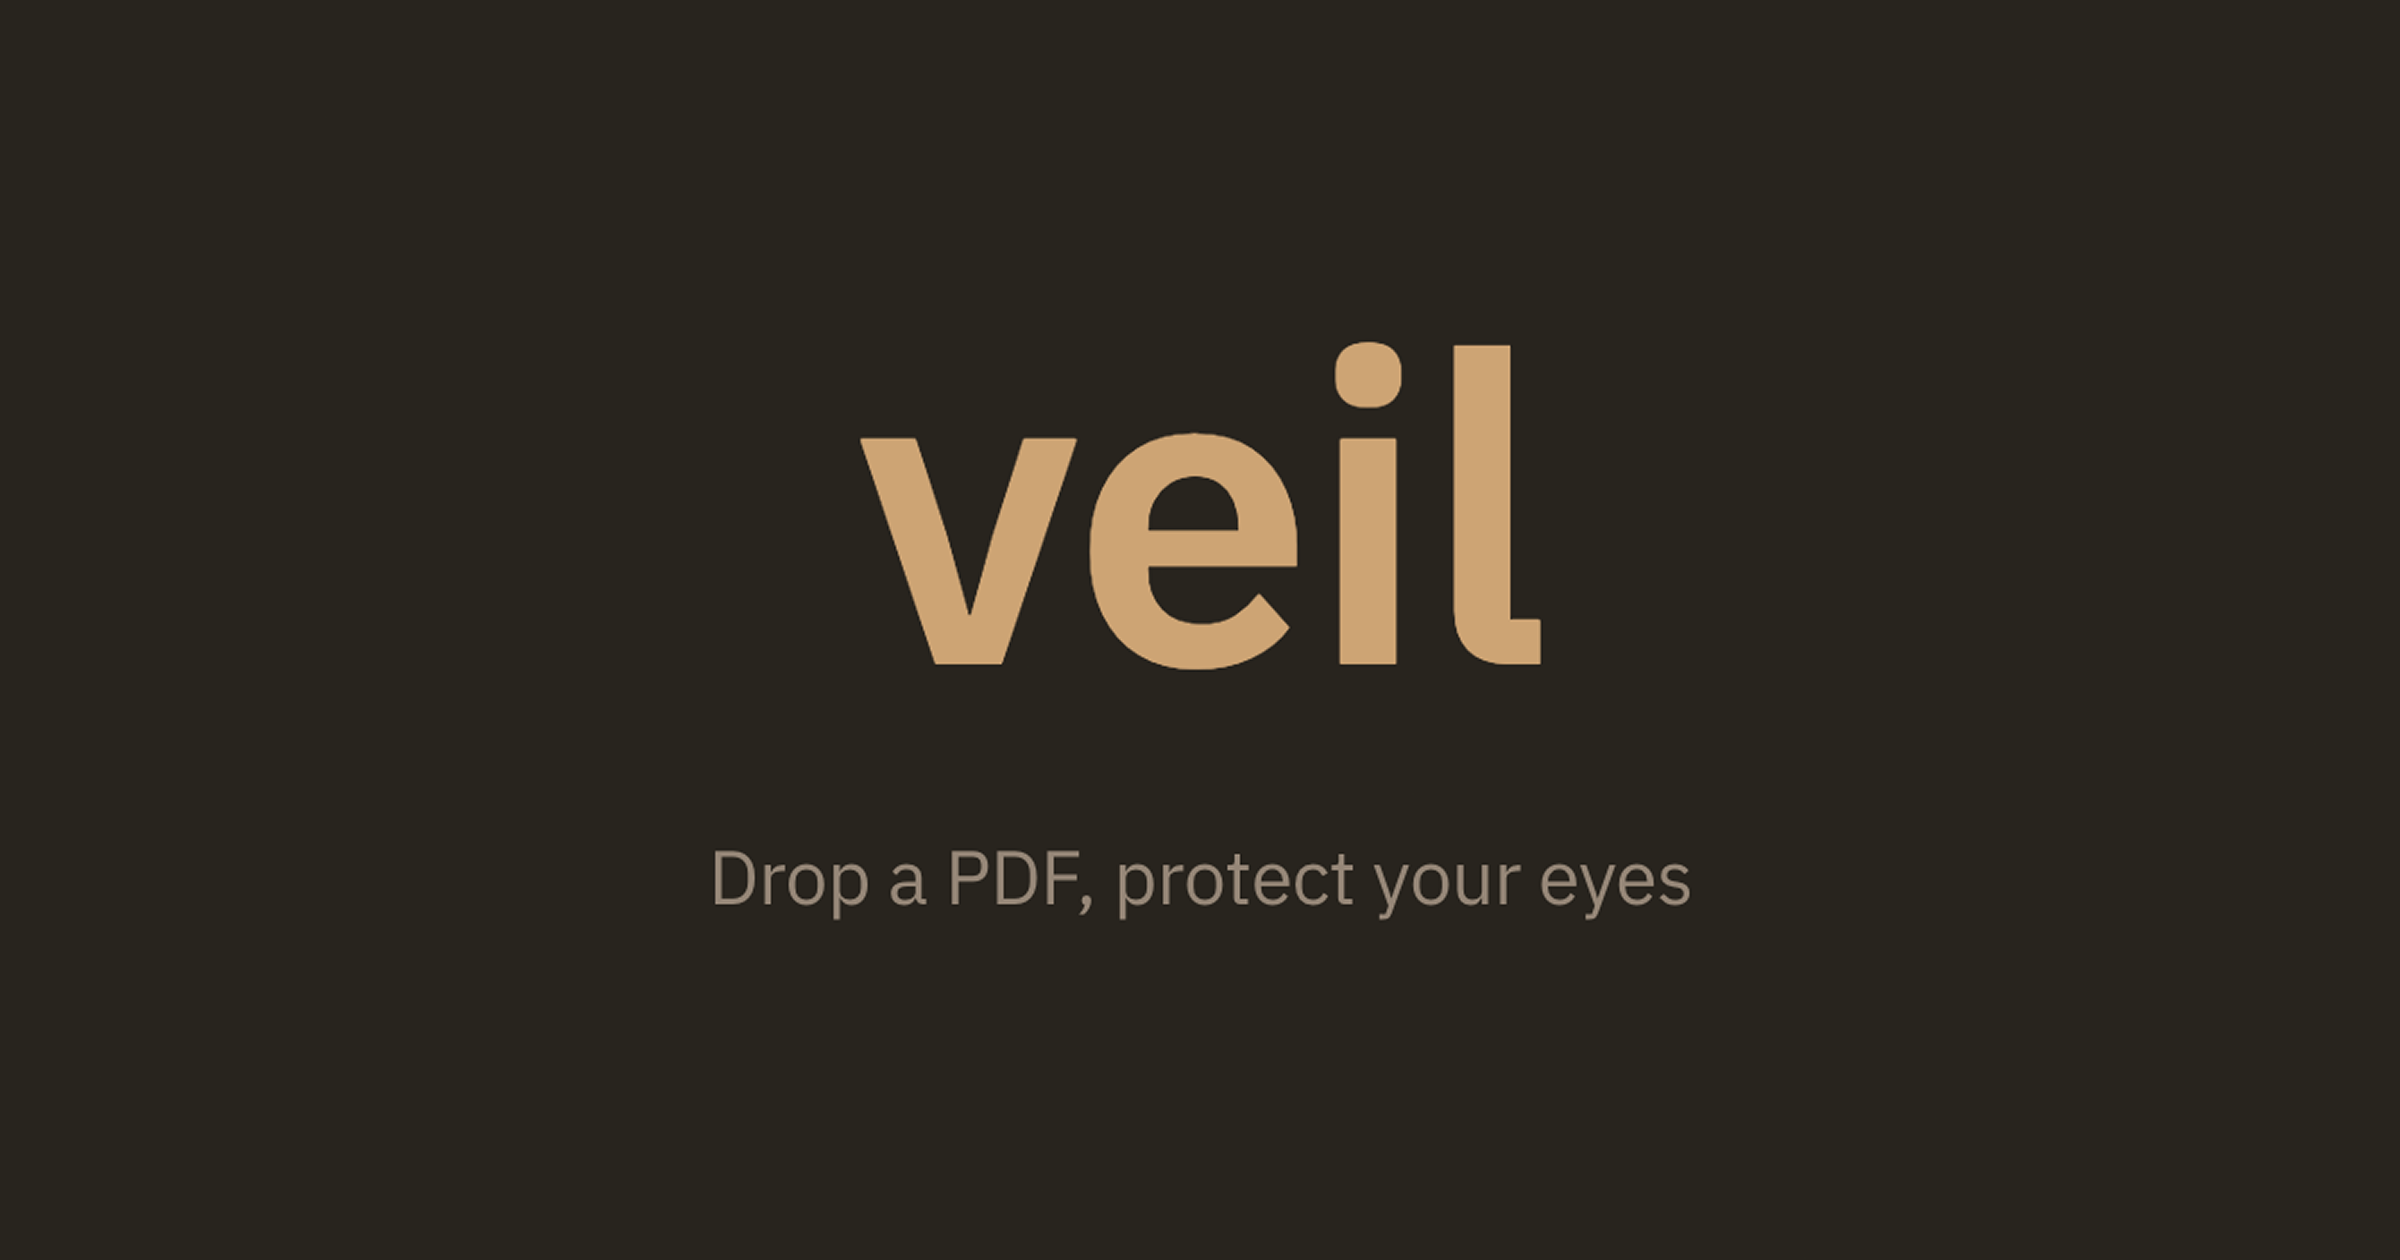
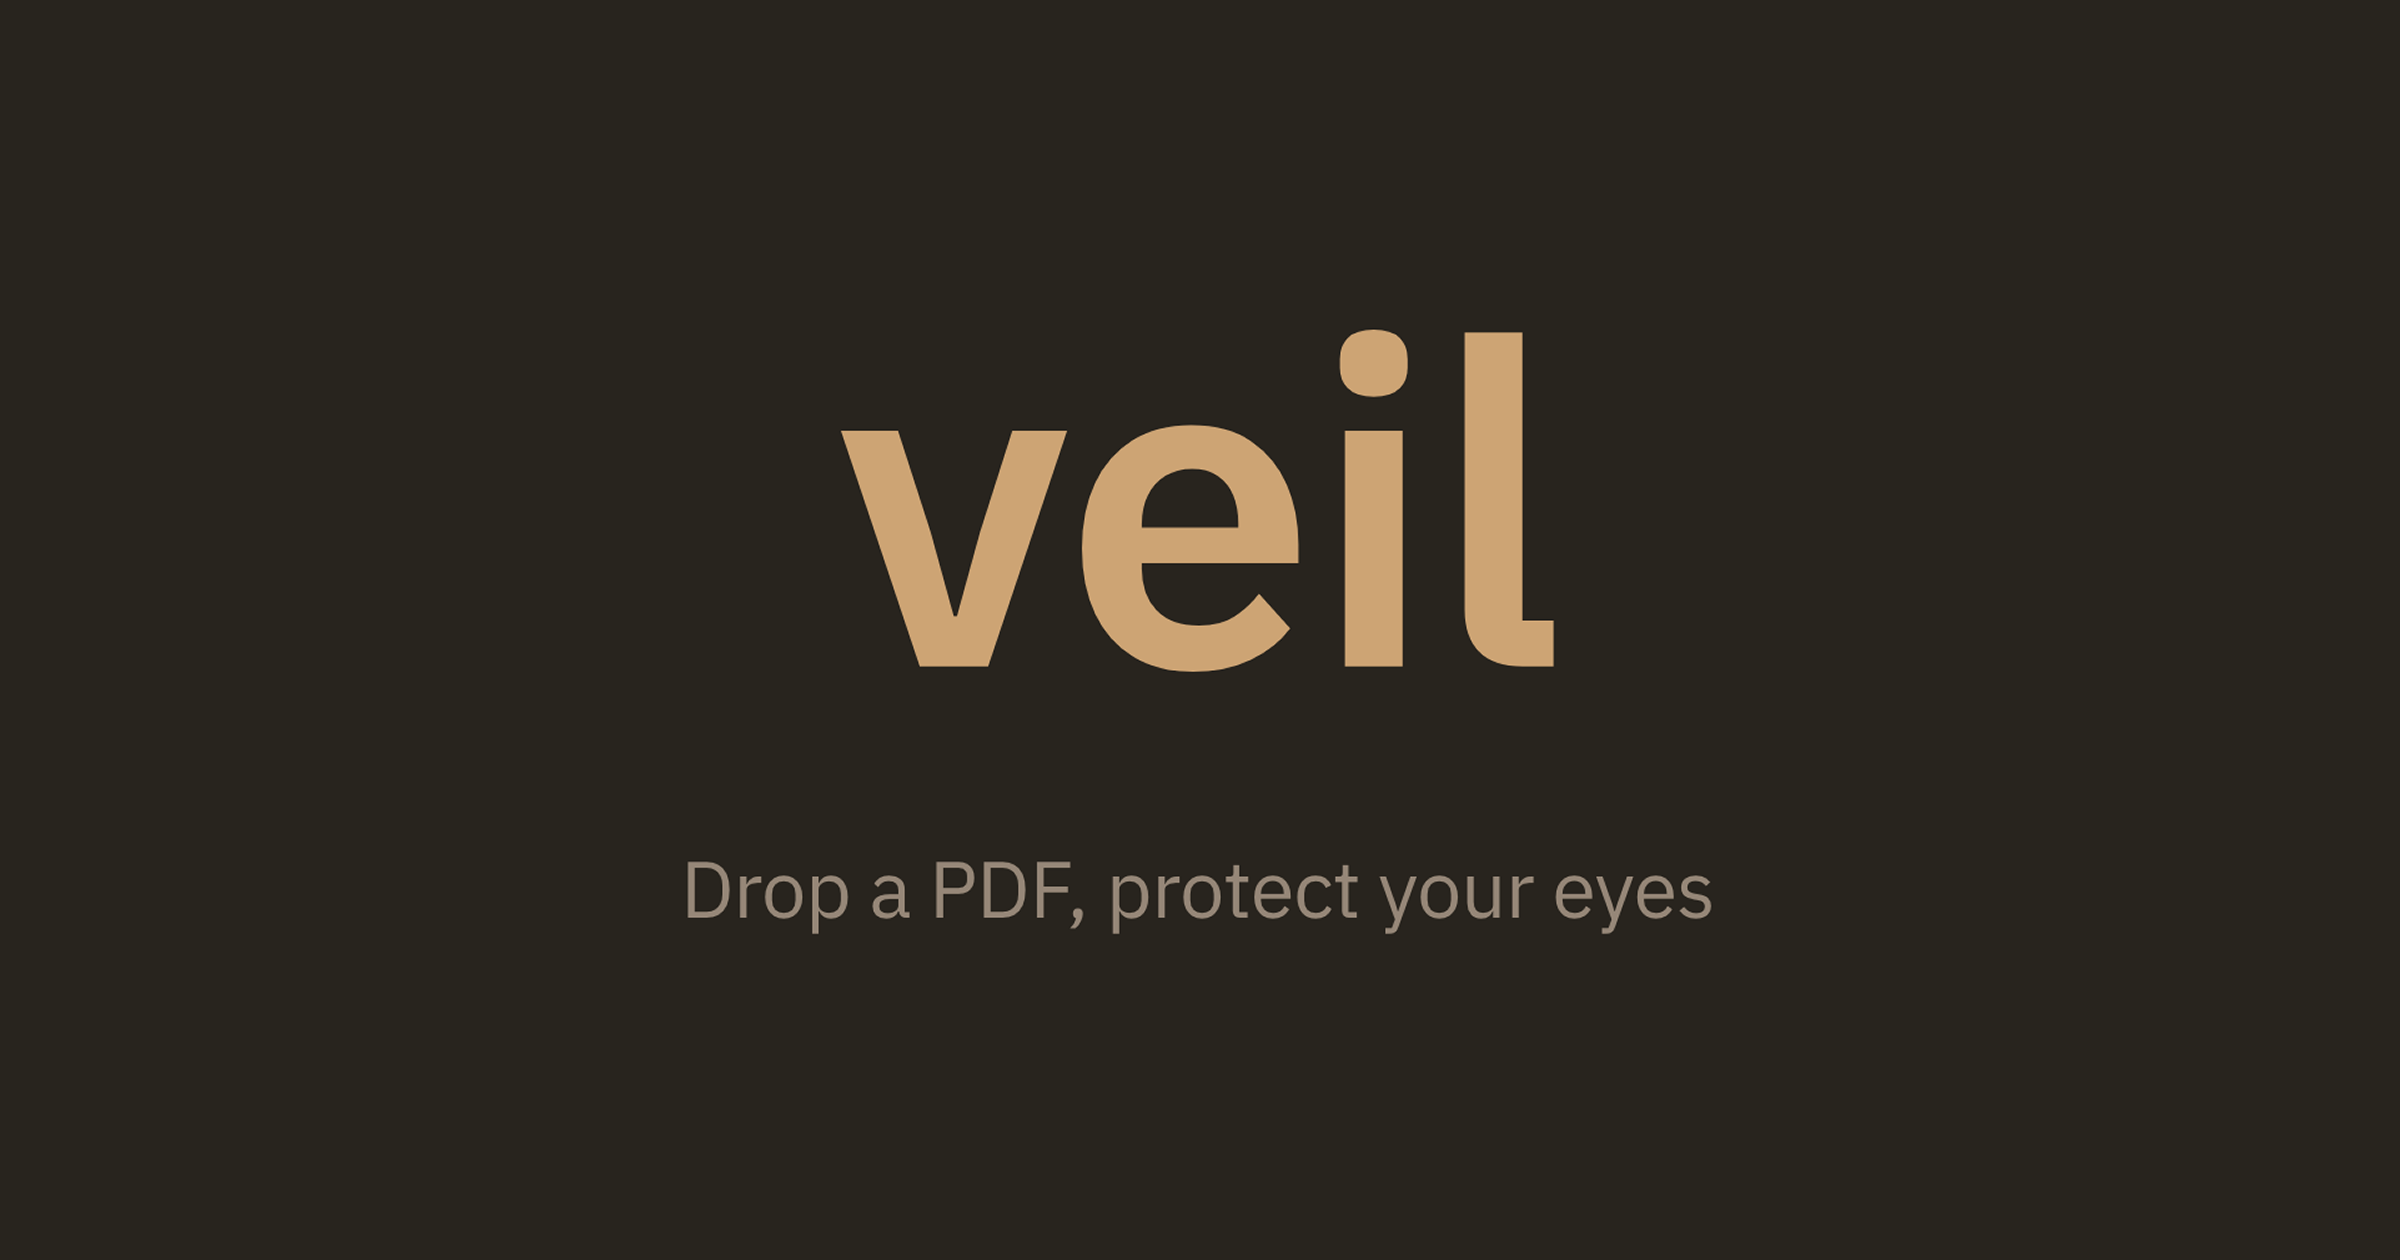
docs: add README with demo GIF and header
README with header image linking to live demo, h3 subtitle,
animated GIF showing dark mode toggle on a medical research PDF
(MedMNIST), feature list (10 bullets), technical overview, and
development commands. Link to veil.simoneamico.com as footer.

Header: 3520x600 WebP (25KB), displayed at 840px width.
Demo GIF: light-to-dark toggle showing 18 biomedical images
preserved in original colors (800KB).
og:image updated with higher resolution (2400x1260 PNG).

Alt text on both images for screen reader accessibility.

Changed region(s): [[0.3438, 0.2476, 0.6562, 0.5262], [0.2812, 0.65, 0.7188, 0.7429]]

diff --git a/README.md b/README.md
@@ -1,0 +1,52 @@
+<p align="center">
+  <a href="https://veil.simoneamico.com">
+    <img src="icon/readme-header.webp" alt="veil, dark mode PDFs without destroying your images" width="840">
+  </a>
+</p>
+
+<br />
+
+<h3 align="center">Open source PDF reader with smart dark mode.<br>Text inverted, images preserved, scanned documents made selectable.</h3>
+
+<p align="center">
+  <img src="icon/demo.gif" alt="Demo: a medical research PDF toggled from light to dark mode. Text becomes light on dark background while biomedical images retain their original colors." width="840"><br>
+  <a href="https://veil.simoneamico.com"><strong>Start reading</strong></a>
+</p>
+
+<br />
+
+## Features
+
+- Smart dark mode. Text inverted, images and charts preserved in original colors.
+- Per-page override. Force dark or light on any page, respected in export.
+- Selectable text layer with clean copy/paste across font styles and weights.
+- OCR on images inside native PDFs. Chart labels, axis text, figure captions become selectable. Option/Alt + drag for vertical text (Y-axis labels, rotated annotations).
+- Scanned documents detected automatically, full-page OCR runs in the background.
+- Already-dark pages (slides, dark themes) detected and left untouched.
+- Export to PDF with dark mode baked in, selectable text, and working links.
+- Link annotations preserved. External URLs and internal navigation both work.
+- Zoom with native re-rendering via PDF.js. Sharp text at any level, not bitmap stretching.
+- Installable PWA with offline support. Runs client-side, no server.
+
+## How it works
+
+Veil uses PDF.js to render each page, then applies CSS inversion for the dark background. A second canvas restores the original image pixels over the inverted regions, so photos, charts, and diagrams keep their true colors. Image detection walks the PDF operator list via the public API, no fork required.
+
+Scanned documents are detected by sampling a few pages. Tesseract.js runs OCR in the background, and the recognized text becomes a selectable layer. Language is picked up from your system preferences.
+
+## Development
+
+```
+npm install
+npm test            # 329 unit tests (~2s)
+npm run test:e2e    # 53 browser tests (Playwright)
+npm run serve       # http://localhost:8000
+```
+
+382 tests (329 unit + 53 e2e) including performance benchmarks.
+
+---
+
+<p align="center">
+  <a href="https://veil.simoneamico.com">veil.simoneamico.com</a>
+</p>
